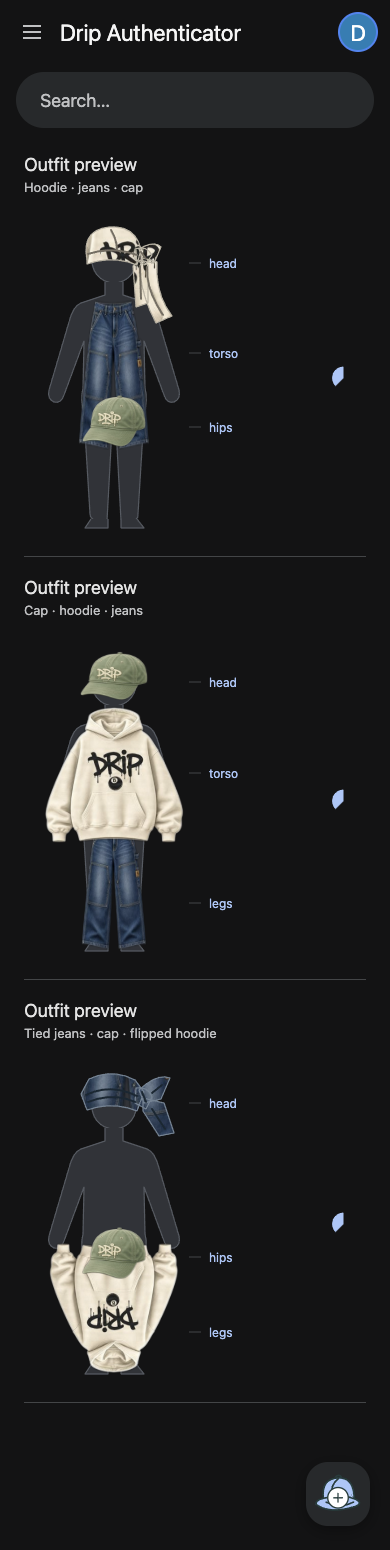
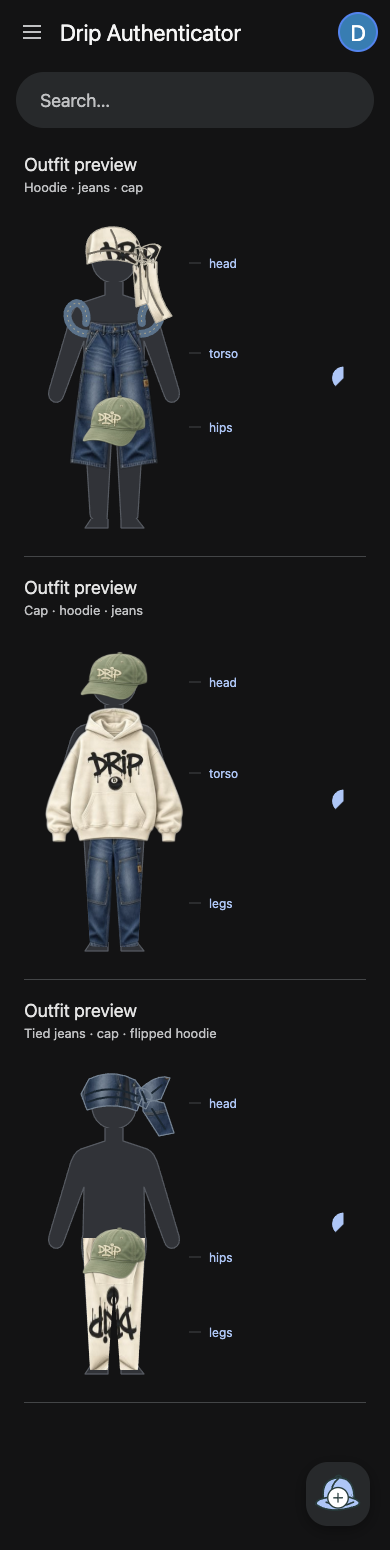
Hook torso pants onto sleeves and fit lower garments to legs

diff --git a/threadcheck/src/components/OutfitMannequin.tsx b/threadcheck/src/components/OutfitMannequin.tsx
@@ -60,14 +60,14 @@ const poses: Record<keyof Outfit, Record<Outfit["head"], GarmentPose>> = {
       labelY: 125,
     },
     pants: {
-      x: 42,
-      y: 82,
-      width: 96,
+      x: 30,
+      y: 102,
+      width: 120,
       height: 150,
       rotation: 0,
       layer: 1,
       label: "torso",
-      instruction: "pull waistband to chest",
+      instruction: "hook waistband onto sleeves",
       labelY: 128,
     },
     hat: {
@@ -84,10 +84,10 @@ const poses: Record<keyof Outfit, Record<Outfit["head"], GarmentPose>> = {
   },
   feet: {
     hoodie: {
-      x: 25,
-      y: 178,
-      width: 130,
-      height: 132,
+      x: 30,
+      y: 148,
+      width: 120,
+      height: 192,
       rotation: 180,
       layer: 1,
       label: "legs",
@@ -95,10 +95,10 @@ const poses: Record<keyof Outfit, Record<Outfit["head"], GarmentPose>> = {
       labelY: 261,
     },
     pants: {
-      x: 46,
-      y: 177,
-      width: 88,
-      height: 132,
+      x: 42,
+      y: 168,
+      width: 96,
+      height: 142,
       rotation: 0,
       layer: 1,
       label: "legs",
@@ -126,6 +126,7 @@ export function OutfitMannequin({
   outfit: Outfit;
   clothing: ClothingImages;
 }) {
+  const legsClipId = useId();
   const garments = placements.map((place) => ({
     place,
     kind: outfit[place],
@@ -141,6 +142,11 @@ export function OutfitMannequin({
         .join(". ")}
     >
       <Svg width={180} height={320} viewBox="0 0 180 320">
+        <Defs>
+          <ClipPath id={legsClipId}>
+            <Path d="M59 174H121L120 198L114 306H96L90 220L84 306H66L60 198Z" />
+          </ClipPath>
+        </Defs>
         <G
           fill="#303338"
           stroke="#555A61"
@@ -162,16 +168,42 @@ export function OutfitMannequin({
                 kind={pose.wrap}
               />
             ) : (
-              <Image
+              <G
                 key={place}
-                href={clothing[kind].source}
-                x={pose.x}
-                y={pose.y}
-                width={pose.width}
-                height={pose.height}
-                preserveAspectRatio="none"
-                transform={`rotate(${pose.rotation} ${pose.x + pose.width / 2} ${pose.y + pose.height / 2})`}
-              />
+                clipPath={
+                  place === "feet" && kind !== "hat"
+                    ? `url(#${legsClipId})`
+                    : undefined
+                }
+              >
+                {place === "body" && kind === "pants" && (
+                  <>
+                    <Path
+                      d="M65 116C44 116 39 95 47 88C56 79 65 93 62 105M115 116C136 116 141 95 133 88C124 79 115 93 118 105"
+                      fill="none"
+                      stroke="#54738C"
+                      strokeWidth={8}
+                      strokeLinecap="round"
+                    />
+                    <Path
+                      d="M65 116C44 116 39 95 47 88C56 79 65 93 62 105M115 116C136 116 141 95 133 88C124 79 115 93 118 105"
+                      fill="none"
+                      stroke="#A3A08B"
+                      strokeWidth={1}
+                      strokeDasharray="2 3"
+                    />
+                  </>
+                )}
+                <Image
+                  href={clothing[kind].source}
+                  x={pose.x}
+                  y={pose.y}
+                  width={pose.width}
+                  height={pose.height}
+                  preserveAspectRatio="none"
+                  transform={`rotate(${pose.rotation} ${pose.x + pose.width / 2} ${pose.y + pose.height / 2})`}
+                />
+              </G>
             ),
           )}
       </Svg>

diff --git a/threadcheck/README.md b/threadcheck/README.md
@@ -6,7 +6,7 @@
 
 Tap the **+ hat** on the main screen to open the camera scanner. In the app or website you want to protect (Microsoft, Google, Entré, etc.), open two-factor authentication settings, choose an authenticator app, and scan its setup QR. If you cannot use the camera, choose **Enter key** and enter the service name, account label, and Base32 setup key.
 
-Accounts show clothing combinations on a mannequin with placement labels and per-service countdowns. The hoodie fits the torso, a lower cap covers the crotch, pants on the head form a tied wrap, a hoodie on the head forms a durag, and a lower hoodie flips upside down. Scanned cutouts use the same positioning; the wrap clips the actual pants image into illustrated folds. Numeric TOTP codes are used internally to select the arrangement but are never rendered or offered for copying on the main screen or account details. Tap an account to rename its label or remove it. Search matches service names and account labels, and daily fit cutouts replace the bundled clothing images.
+Accounts show clothing combinations on a mannequin with placement labels and per-service countdowns. The hoodie fits the torso, torso pants hook around the sleeve/arm area, lower garments follow two legs to the ankles, a lower cap covers the crotch, pants on the head form a tied wrap, a hoodie on the head forms a durag, and a lower hoodie flips upside down. Scanned cutouts use the same positioning; the wrap clips the actual pants image into illustrated folds. Numeric TOTP codes are used internally to select the arrangement but are never rendered or offered for copying on the main screen or account details. Tap an account to rename its label or remove it. Search matches service names and account labels, and daily fit cutouts replace the bundled clothing images.
 
 Main-screen accounts work offline and persist on the device: native apps use Expo SecureStore; the web preview uses browser storage. Browser storage is not encrypted, so use disposable accounts for web demos. Old demo outfit labels are left untouched in storage and no longer appear as authenticator accounts. The separate outfit-gated server vault remains under **Menu → Settings → Vault & scanners**.
 
